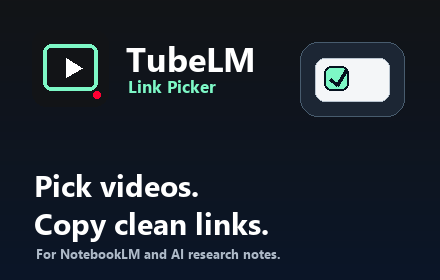
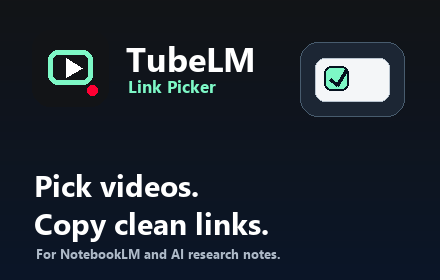
chore: tighten cws asset provenance

Changed region(s): [[0.0886, 0.1429, 0.2364, 0.3714]]

diff --git a/scripts/generate-store-assets.py b/scripts/generate-store-assets.py
@@ -1,17 +1,14 @@
 from pathlib import Path
-from PIL import Image, ImageDraw, ImageFont, ImageFilter
+from PIL import Image, ImageDraw, ImageFont
 
 OUT = Path('store-assets')
 OUT.mkdir(exist_ok=True)
 
 INK = (18, 20, 23)
-PAPER = (244, 246, 248)
-MUTED = (101, 113, 126)
-ACCENT = (16, 185, 129)
 MINT = (125, 248, 198)
-RED = (255, 0, 51)
+PAPER = (244, 246, 248)
 WHITE = (255, 255, 255)
-W, H = 1280, 800
+RED = (255, 0, 51)
 
 
 def font(size, bold=False):
@@ -29,133 +26,18 @@ def rounded(draw, box, radius, fill, outline=None, width=1):
     draw.rounded_rectangle(box, radius, fill=fill, outline=outline, width=width)
 
 
-def shadow_card(base, box, radius=24, shadow=(0, 0, 0, 38), blur=22, offset=(0, 14), fill=WHITE, outline=(214, 220, 226)):
-    layer = Image.new('RGBA', base.size, (0, 0, 0, 0))
-    layer_draw = ImageDraw.Draw(layer)
-    x0, y0, x1, y1 = box
-    dx, dy = offset
-    layer_draw.rounded_rectangle((x0 + dx, y0 + dy, x1 + dx, y1 + dy), radius, fill=shadow)
-    layer = layer.filter(ImageFilter.GaussianBlur(blur))
-    base.alpha_composite(layer)
-    draw = ImageDraw.Draw(base)
-    draw.rounded_rectangle(box, radius, fill=fill, outline=outline, width=1)
-
-
-def draw_tubelm_logo(draw, x, y, size=54):
-    rounded(draw, (x, y, x + size, y + size), 14, INK)
-    draw.rounded_rectangle((x + 11, y + 14, x + size - 11, y + size - 16), 8, outline=MINT, width=4)
+def draw_tubelm_logo(draw, x, y, size=76):
+    rounded(draw, (x, y, x + size, y + size), 18, INK)
+    draw.rounded_rectangle((x + 16, y + 20, x + size - 16, y + size - 22), 10, outline=MINT, width=5)
     draw.polygon(
-        [(x + size * 0.45, y + size * 0.38), (x + size * 0.45, y + size * 0.62), (x + size * 0.66, y + size * 0.50)],
+        [
+            (x + size * 0.45, y + size * 0.38),
+            (x + size * 0.45, y + size * 0.62),
+            (x + size * 0.66, y + size * 0.50),
+        ],
         fill=WHITE,
     )
-    draw.ellipse((x + size - 15, y + size - 15, x + size - 8, y + size - 8), fill=RED)
-
-
-def draw_browser_chrome(draw, box, title='youtube.com'):
-    x0, y0, x1, y1 = box
-    rounded(draw, box, 22, WHITE, outline=(210, 216, 224))
-    draw.rounded_rectangle((x0, y0, x1, y0 + 58), 22, fill=(250, 251, 252), outline=(210, 216, 224))
-    draw.rectangle((x0, y0 + 28, x1, y0 + 58), fill=(250, 251, 252))
-    for index, color in enumerate([(238, 88, 88), (241, 190, 74), (83, 196, 114)]):
-        draw.ellipse((x0 + 24 + index * 20, y0 + 21, x0 + 36 + index * 20, y0 + 33), fill=color)
-    rounded(draw, (x0 + 125, y0 + 15, x1 - 30, y0 + 42), 14, (239, 243, 247), outline=(225, 230, 236))
-    draw.text((x0 + 150, y0 + 20), title, fill=(79, 90, 104), font=font(15))
-
-
-def draw_youtube_grid(base, area, selected=(0, 2, 4), shorts=False):
-    draw = ImageDraw.Draw(base)
-    x0, y0, x1, y1 = area
-    draw.rectangle((x0, y0, x1, y1), fill=WHITE)
-    draw.text((x0 + 24, y0 + 20), 'TubeLM demo on YouTube', fill=INK, font=font(20, True))
-    rounded(draw, (x1 - 260, y0 + 16, x1 - 36, y0 + 44), 12, (243, 246, 249), outline=(222, 228, 234))
-    draw.text((x1 - 244, y0 + 22), 'Search videos', fill=MUTED, font=font(14))
-    cols, gap = 3, 26
-    tile_width = (x1 - x0 - 48 - gap * (cols - 1)) // cols
-    tile_height = 150
-    start_y = y0 + 82
-    labels = ['AI research workflow', 'NotebookLM source', 'Chrome extension', 'Long playlist', 'Shorts batch', 'Clean links']
-    colors = [(30, 41, 59), (15, 23, 42), (34, 49, 63), (38, 55, 72), (22, 78, 99), (31, 41, 55)]
-    for index in range(6):
-        col = index % cols
-        row = index // cols
-        x = x0 + 24 + col * (tile_width + gap)
-        y = start_y + row * (tile_height + 74)
-        color = colors[index]
-        rounded(draw, (x, y, x + tile_width, y + tile_height), 16, color)
-        for stripe in range(7):
-            yy = y + 18 + stripe * 17
-            draw.line((x + 18, yy, x + tile_width - 18, yy + 5), fill=tuple(min(255, c + 25) for c in color), width=2)
-        draw.polygon(
-            [(x + tile_width / 2 - 18, y + tile_height / 2 - 24), (x + tile_width / 2 - 18, y + tile_height / 2 + 24), (x + tile_width / 2 + 28, y + tile_height / 2)],
-            fill=(255, 255, 255, 220),
-        )
-        if index in selected:
-            rounded(draw, (x + 12, y + 12, x + 48, y + 48), 10, MINT, outline=(6, 18, 31), width=2)
-            draw.line((x + 21, y + 31, x + 30, y + 39, x + 43, y + 21), fill=(6, 18, 31), width=4, joint='curve')
-        else:
-            rounded(draw, (x + 12, y + 12, x + 48, y + 48), 10, (6, 18, 31, 190), outline=WHITE, width=2)
-        draw.text((x, y + tile_height + 12), labels[index], fill=INK, font=font(18, True))
-        draw.text((x, y + tile_height + 38), 'youtube.com/shorts/ID' if shorts else 'youtube.com/watch?v=ID', fill=MUTED, font=font(13))
-
-
-def draw_popup(base, box, count=3, side=False):
-    draw = ImageDraw.Draw(base)
-    x0, y0, x1, y1 = box
-    shadow_card(base, box, 26, shadow=(0, 0, 0, 60), blur=28, offset=(0, 18), fill=INK, outline=(53, 64, 76))
-    draw_tubelm_logo(draw, x0 + 26, y0 + 24, 54)
-    draw.text((x0 + 94, y0 + 26), 'TubeLM', fill=WHITE, font=font(28, True))
-    draw.text((x0 + 94, y0 + 60), 'YouTube links for NotebookLM', fill=(190, 201, 213), font=font(13))
-    rounded(draw, (x1 - 110, y0 + 28, x1 - 26, y0 + 54), 13, (20, 83, 62), outline=(70, 200, 150))
-    draw.text((x1 - 92, y0 + 33), 'Ready', fill=MINT, font=font(13, True))
-    rounded(draw, (x0 + 26, y0 + 102, x1 - 26, y0 + 214), 22, PAPER, outline=(220, 226, 232))
-    draw.text((x0 + 48, y0 + 124), 'Selected', fill=MUTED, font=font(15, True))
-    draw.text((x0 + 48, y0 + 148), str(count), fill=INK, font=font(52, True))
-    draw.text((x0 + 128, y0 + 160), 'videos ready to copy', fill=(61, 73, 88), font=font(18))
-    rounded(draw, (x0 + 26, y0 + 236, x1 - 26, y0 + 326), 22, ACCENT)
-    draw.text((x0 + 54, y0 + 257), f'Copy {count} URLs', fill=(3, 31, 22), font=font(25, True))
-    draw.text((x0 + 54, y0 + 289), 'Newline list, ready for NotebookLM', fill=(7, 69, 50), font=font(14))
-    rounded(draw, (x0 + 26, y0 + 346, x0 + 176, y0 + 394), 16, (238, 242, 245), outline=(218, 224, 230))
-    rounded(draw, (x0 + 194, y0 + 346, x1 - 26, y0 + 394), 16, (238, 242, 245), outline=(218, 224, 230))
-    draw.text((x0 + 48, y0 + 360), 'Select visible', fill=INK, font=font(15, True))
-    draw.text((x0 + 220, y0 + 360), 'Clear', fill=INK, font=font(15, True))
-    if side:
-        draw.text((x0 + 28, y1 - 45), 'Side panel mode keeps controls visible', fill=(190, 201, 213), font=font(13))
-
-
-def screenshot_hero():
-    image = Image.new('RGBA', (W, H), PAPER + (255,))
-    draw = ImageDraw.Draw(image)
-    browser = (54, 50, 1226, 750)
-    draw_browser_chrome(draw, browser, 'youtube.com/results?search_query=ai+research')
-    draw_youtube_grid(image, (browser[0] + 1, browser[1] + 59, browser[2] - 1, browser[3] - 1), selected=(0, 2, 4))
-    draw_popup(image, (840, 126, 1192, 560), 3)
-    image.convert('RGB').save(OUT / 'screenshot-01-hero.png')
-
-
-def screenshot_shorts():
-    image = Image.new('RGBA', (W, H), PAPER + (255,))
-    draw = ImageDraw.Draw(image)
-    browser = (54, 50, 1226, 750)
-    draw_browser_chrome(draw, browser, 'youtube.com/shorts')
-    draw_youtube_grid(image, (browser[0] + 1, browser[1] + 59, browser[2] - 1, browser[3] - 1), selected=(0, 1, 3, 4), shorts=True)
-    draw_popup(image, (822, 110, 1192, 560), 4)
-    image.convert('RGB').save(OUT / 'screenshot-02-shorts.png')
-
-
-def screenshot_notebook():
-    image = Image.new('RGBA', (W, H), PAPER + (255,))
-    draw = ImageDraw.Draw(image)
-    draw_browser_chrome(draw, (50, 52, 590, 748), 'youtube.com/channel/demo')
-    draw_youtube_grid(image, (51, 111, 589, 747), selected=(0, 2, 3))
-    draw_popup(image, (640, 82, 1190, 360), 3)
-    shadow_card(image, (640, 400, 1190, 720), 24, fill=WHITE)
-    draw.text((670, 430), 'NotebookLM sources', fill=INK, font=font(31, True))
-    draw.text((670, 472), 'Paste clean YouTube URLs as sources.', fill=MUTED, font=font(18))
-    rounded(draw, (670, 512, 1160, 670), 16, (247, 249, 251), outline=(220, 226, 232))
-    urls = ['https://www.youtube.com/watch?v=AI001', 'https://www.youtube.com/watch?v=AI002', 'https://www.youtube.com/shorts/AI003']
-    for index, url in enumerate(urls):
-        draw.text((696, 536 + index * 36), url, fill=(43, 54, 66), font=font(17))
-    image.convert('RGB').save(OUT / 'screenshot-03-notebooklm.png')
+    draw.ellipse((x + size - 21, y + size - 21, x + size - 11, y + size - 11), fill=RED)
 
 
 def promo_tile():
@@ -165,31 +47,31 @@ def promo_tile():
         a = y / 280
         color = (int(18 - 7 * a), int(20 + 2 * a), int(23 + 17 * a))
         draw.line((0, y, 440, y), fill=color)
+
     draw_tubelm_logo(draw, 32, 30, 76)
     draw.text((126, 35), 'TubeLM', fill=WHITE, font=font(34, True))
     draw.text((128, 74), 'Link Picker', fill=MINT, font=font(17, True))
+
     rounded(draw, (300, 42, 404, 116), 18, (28, 38, 52), outline=(72, 92, 110))
     rounded(draw, (315, 58, 389, 101), 10, PAPER, outline=(185, 196, 207))
     rounded(draw, (324, 66, 348, 90), 7, MINT, outline=(6, 18, 31), width=2)
     draw.line((330, 79, 337, 85, 346, 70), fill=(6, 18, 31), width=3)
+
     draw.text((34, 164), 'Pick videos.', fill=WHITE, font=font(30, True))
     draw.text((34, 202), 'Copy clean links.', fill=WHITE, font=font(30, True))
     draw.text((36, 244), 'For NotebookLM and AI research notes.', fill=(174, 186, 200), font=font(13, True))
-    image.convert('RGB').save(OUT / 'promo-small-440x280.png')
+
+    output = OUT / 'promo-small-440x280.png'
+    image.convert('RGB').save(output)
+    return output
 
 
 def main():
-    # Do not overwrite verified live YouTube captures if they already exist.
-    # The generated hero/shorts images are only fallbacks for local draft work.
-    if not (OUT / 'screenshot-01-hero.png').exists():
-        screenshot_hero()
-    if not (OUT / 'screenshot-02-shorts.png').exists():
-        screenshot_shorts()
-    screenshot_notebook()
-    promo_tile()
-    for path in sorted(OUT.glob('*.png')):
-        image = Image.open(path)
-        print(f'{path.as_posix()} {image.size[0]}x{image.size[1]} {image.mode} {path.stat().st_size} bytes')
+    # Required CWS screenshots are real browser captures and must not be generated here.
+    # This script only regenerates the small promotional tile.
+    output = promo_tile()
+    image = Image.open(output)
+    print(f'{output.as_posix()} {image.size[0]}x{image.size[1]} {image.mode} {output.stat().st_size} bytes')
 
 
 if __name__ == '__main__':

diff --git a/CWS-MOCKUP-GUIDE.md b/CWS-MOCKUP-GUIDE.md
@@ -1,9 +1,9 @@
 # TubeLM - Image Asset Guide for the Chrome Web Store
 
 This document is for **Bakhtier**. It gives the exact Chrome Web Store image
-specs and the repo's current starter assets. Ready-to-upload starter PNGs live
-in `store-assets/`; regenerate them with `python scripts/generate-store-assets.py`
-if you need a fresh set.
+specs and the repo's current upload assets. Ready-to-upload PNGs live in
+`store-assets/`; regenerate the small promo tile with
+`python scripts/generate-store-assets.py` if you need a fresh copy.
 
 All numbers below match the Chrome Web Store Developer Dashboard requirements
 as of May 2026.
@@ -21,12 +21,13 @@ as of May 2026.
 | Marquee promotional tile | optional but recommended for featuring | 1400 x 560 | PNG or JPEG (no transparency) | 16 MB |
 | Privacy policy URL | **required** (already prepared) | n/a | URL | n/a |
 
-Current generated/verified assets:
+Current upload assets:
 
-- `store-assets/screenshot-01-hero.png` — 1280 x 800 live YouTube search capture with TubeLM checkboxes verified in Playwright Chromium.
-- `store-assets/screenshot-02-shorts.png` — 1280 x 800 second live YouTube search capture with TubeLM checkboxes verified in Playwright Chromium.
+- `store-assets/screenshot-01-hero.png` — 1280 x 800 live YouTube search/results capture with TubeLM checkboxes verified in Playwright Chromium (`.tubelm-checkbox` count: 25).
+- `store-assets/screenshot-02-search-results.png` — 1280 x 800 second live YouTube search/results capture with TubeLM checkboxes verified in Playwright Chromium (`.tubelm-checkbox` count: 33).
 - `store-assets/promo-small-440x280.png` — required 440 x 280 small promo tile.
-- `store-assets/screenshot-03-notebooklm.png` — optional copy-to-NotebookLM product-flow visual. Do not upload it as a required CWS screenshot unless you intentionally want to test whether the reviewer accepts a flow visual; prefer replacing it with a live NotebookLM/browser capture.
+
+`store-assets/README.md` records the screenshot provenance. Do not upload generated mockups as required CWS screenshots.
 
 > Source: Chrome Web Store Developer Dashboard, "Store listing" tab. As of 2025,
 > Google deprecated the large (920x680) and marquee tile is the only large
@@ -355,11 +356,9 @@ Store review forum and the developer documentation:
    add marketing frames or padding to required screenshot assets.
 5. Use `store-assets/promo-small-440x280.png` as the required small promo tile,
    or regenerate it with `python scripts/generate-store-assets.py`.
-6. Optional: replace `store-assets/screenshot-03-notebooklm.png` with a live
-   NotebookLM/browser capture before uploading it as an additional screenshot.
-7. Build the marquee tile (1400x560) if you want the optional featuring asset.
-8. Run all assets through <https://tinypng.com> or `oxipng -o 4` to compress.
-9. Upload everything in the Developer Dashboard.
+6. Build the marquee tile (1400x560) if you want the optional featuring asset.
+7. Run all assets through <https://tinypng.com> or `oxipng -o 4` to compress.
+8. Upload everything in the Developer Dashboard.
 
 Estimated time if you already have Figma/Affinity templates: **3-4 hours**.
 

diff --git a/store-assets/README.md b/store-assets/README.md
@@ -1,0 +1,9 @@
+# Chrome Web Store upload assets
+
+Use these files in the Chrome Web Store Developer Dashboard:
+
+- `screenshot-01-hero.png` — required screenshot, 1280 x 800 PNG. Captured from a Playwright Chromium session with the unpacked extension loaded on a YouTube search/results page; `.tubelm-checkbox` count was 25 before capture.
+- `screenshot-02-search-results.png` — additional required-format screenshot, 1280 x 800 PNG. Captured from a Playwright Chromium session with the unpacked extension loaded on a second YouTube search/results page; `.tubelm-checkbox` count was 33 before capture.
+- `promo-small-440x280.png` — required small promotional tile, 440 x 280 PNG.
+
+Do not upload generated mockups as required CWS screenshots. If you replace these screenshots, keep them square-corner, no-padding, full-bleed browser captures at 1280 x 800 or 640 x 400.

diff --git a/CWS-LISTING.md b/CWS-LISTING.md
@@ -222,5 +222,5 @@ Each one is under 132 characters.
 
 > See `CWS-MOCKUP-GUIDE.md` for the image assets. The mandatory
 > upload set is already prepared in `store-assets/`:
-> two verified live YouTube screenshots with TubeLM checkboxes and
+> `screenshot-01-hero.png`, `screenshot-02-search-results.png`, and
 > `promo-small-440x280.png`.
